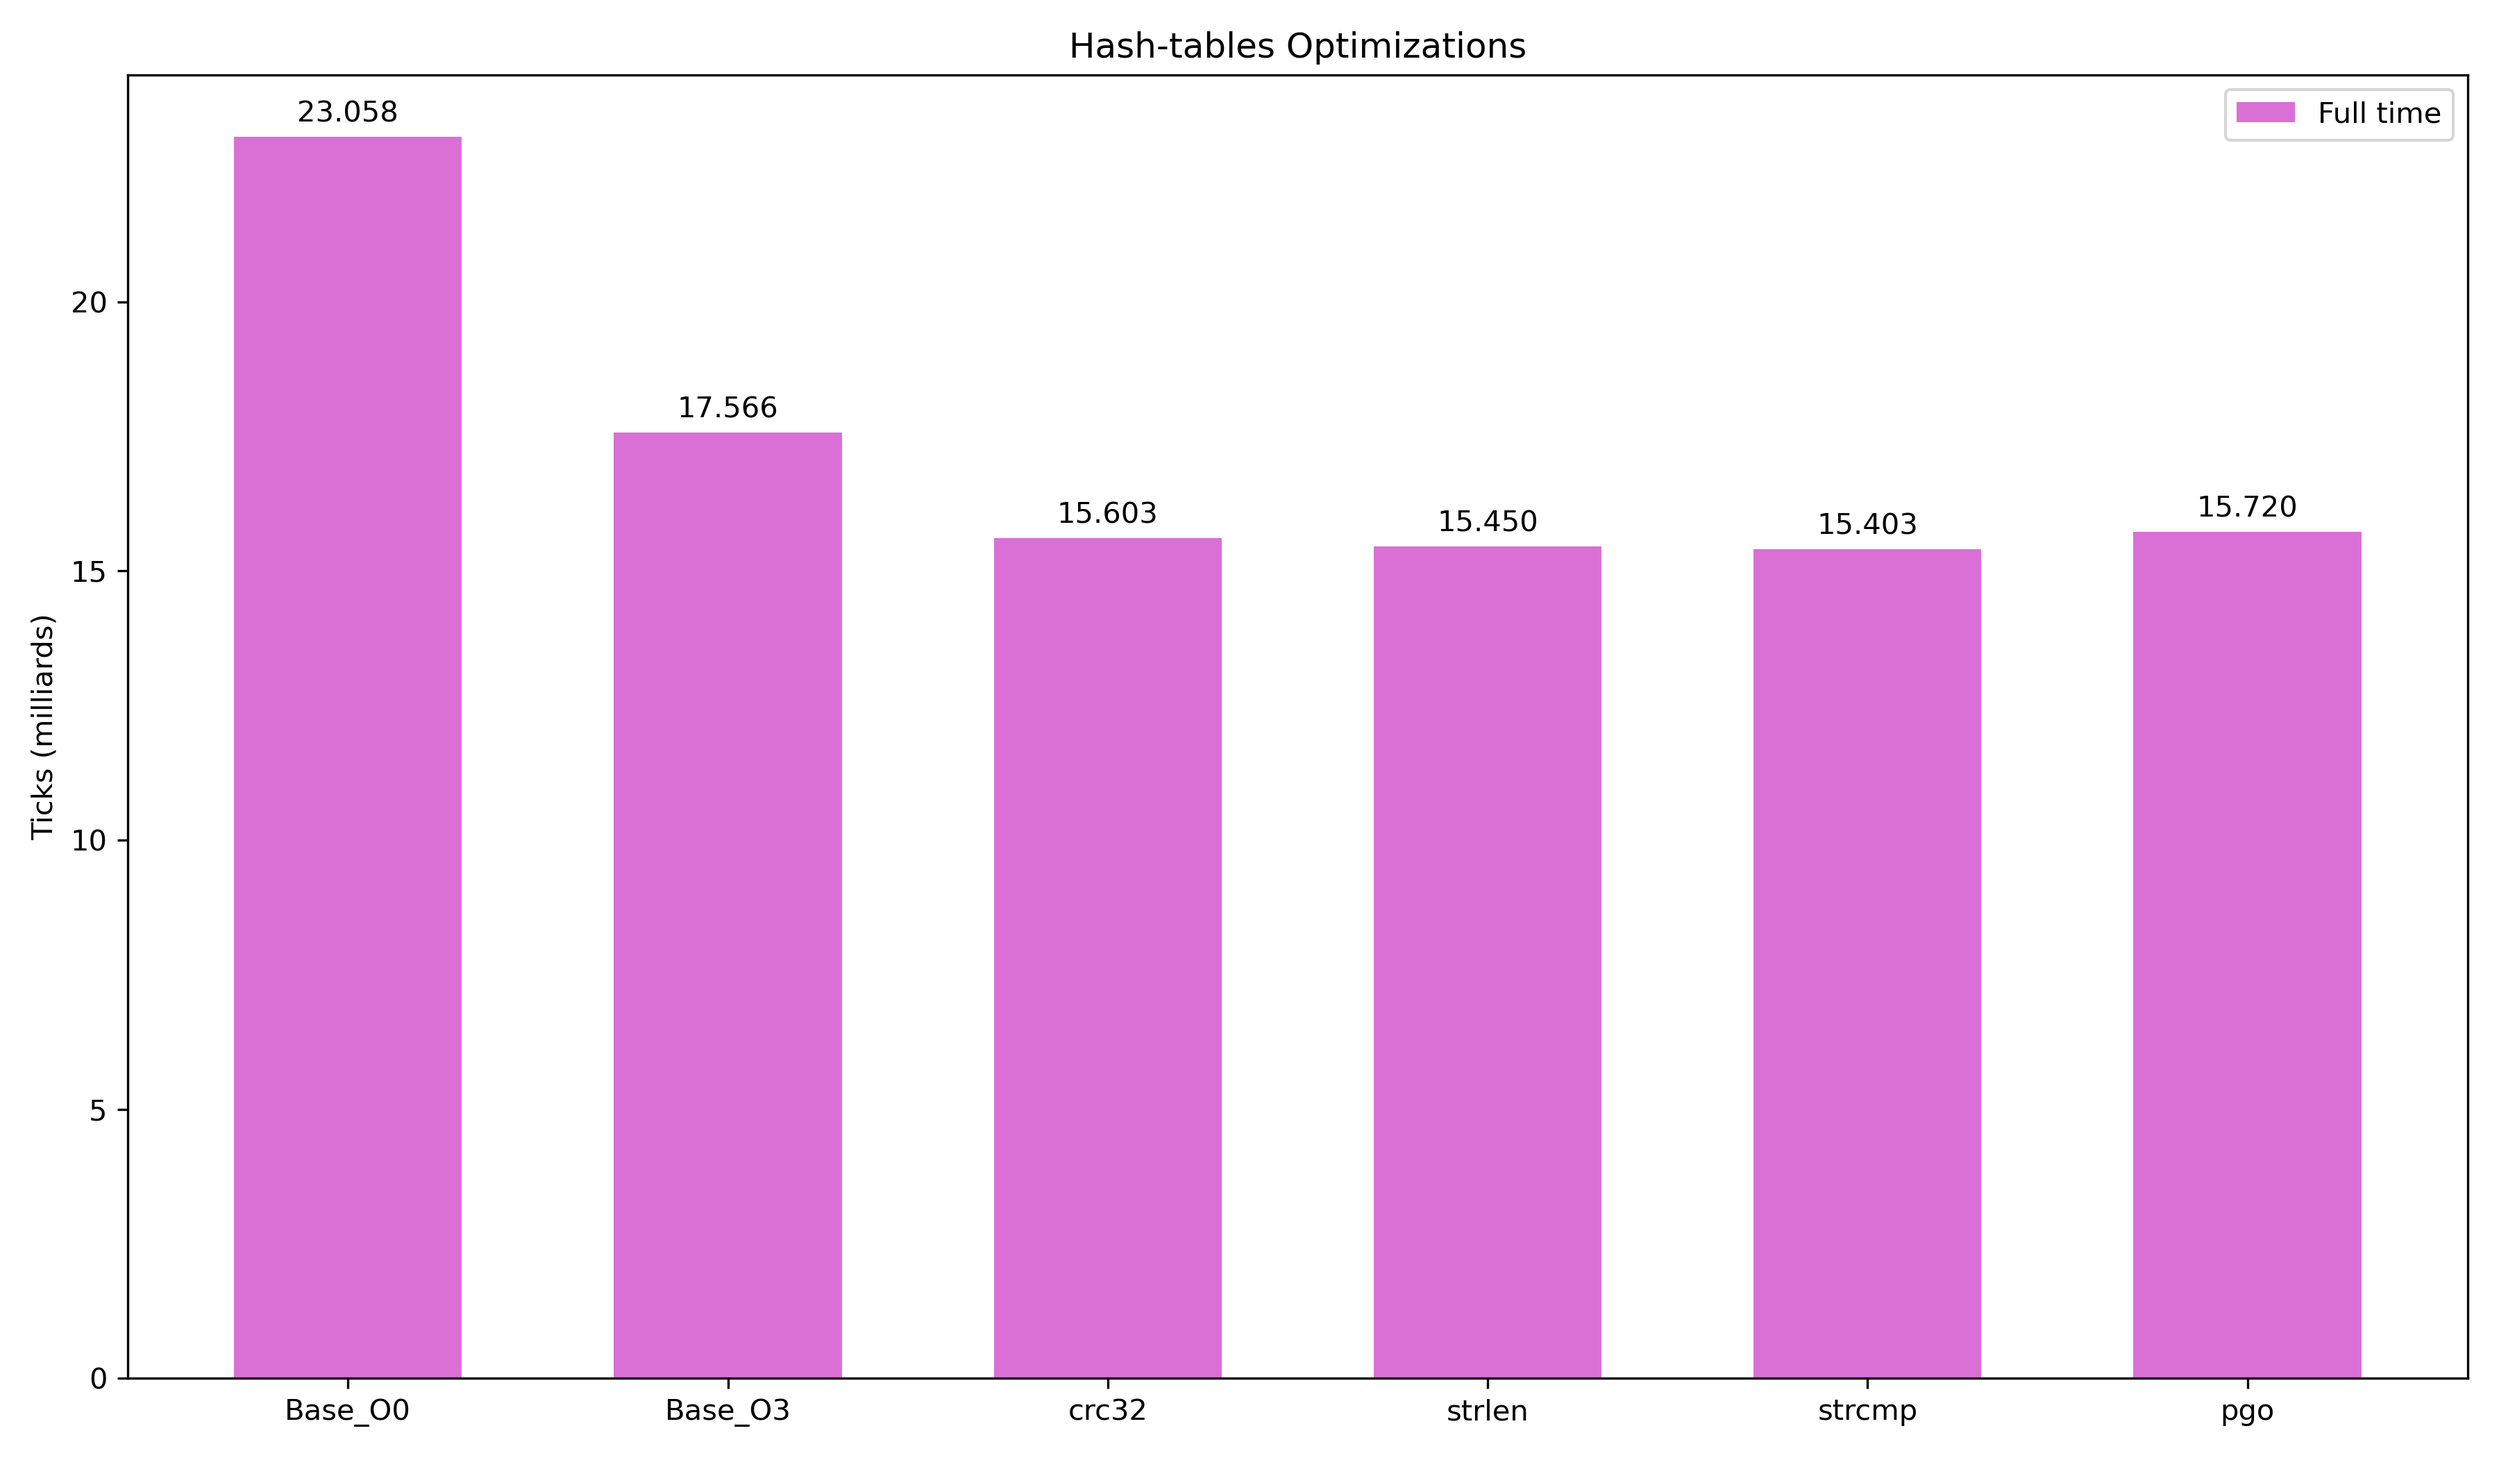
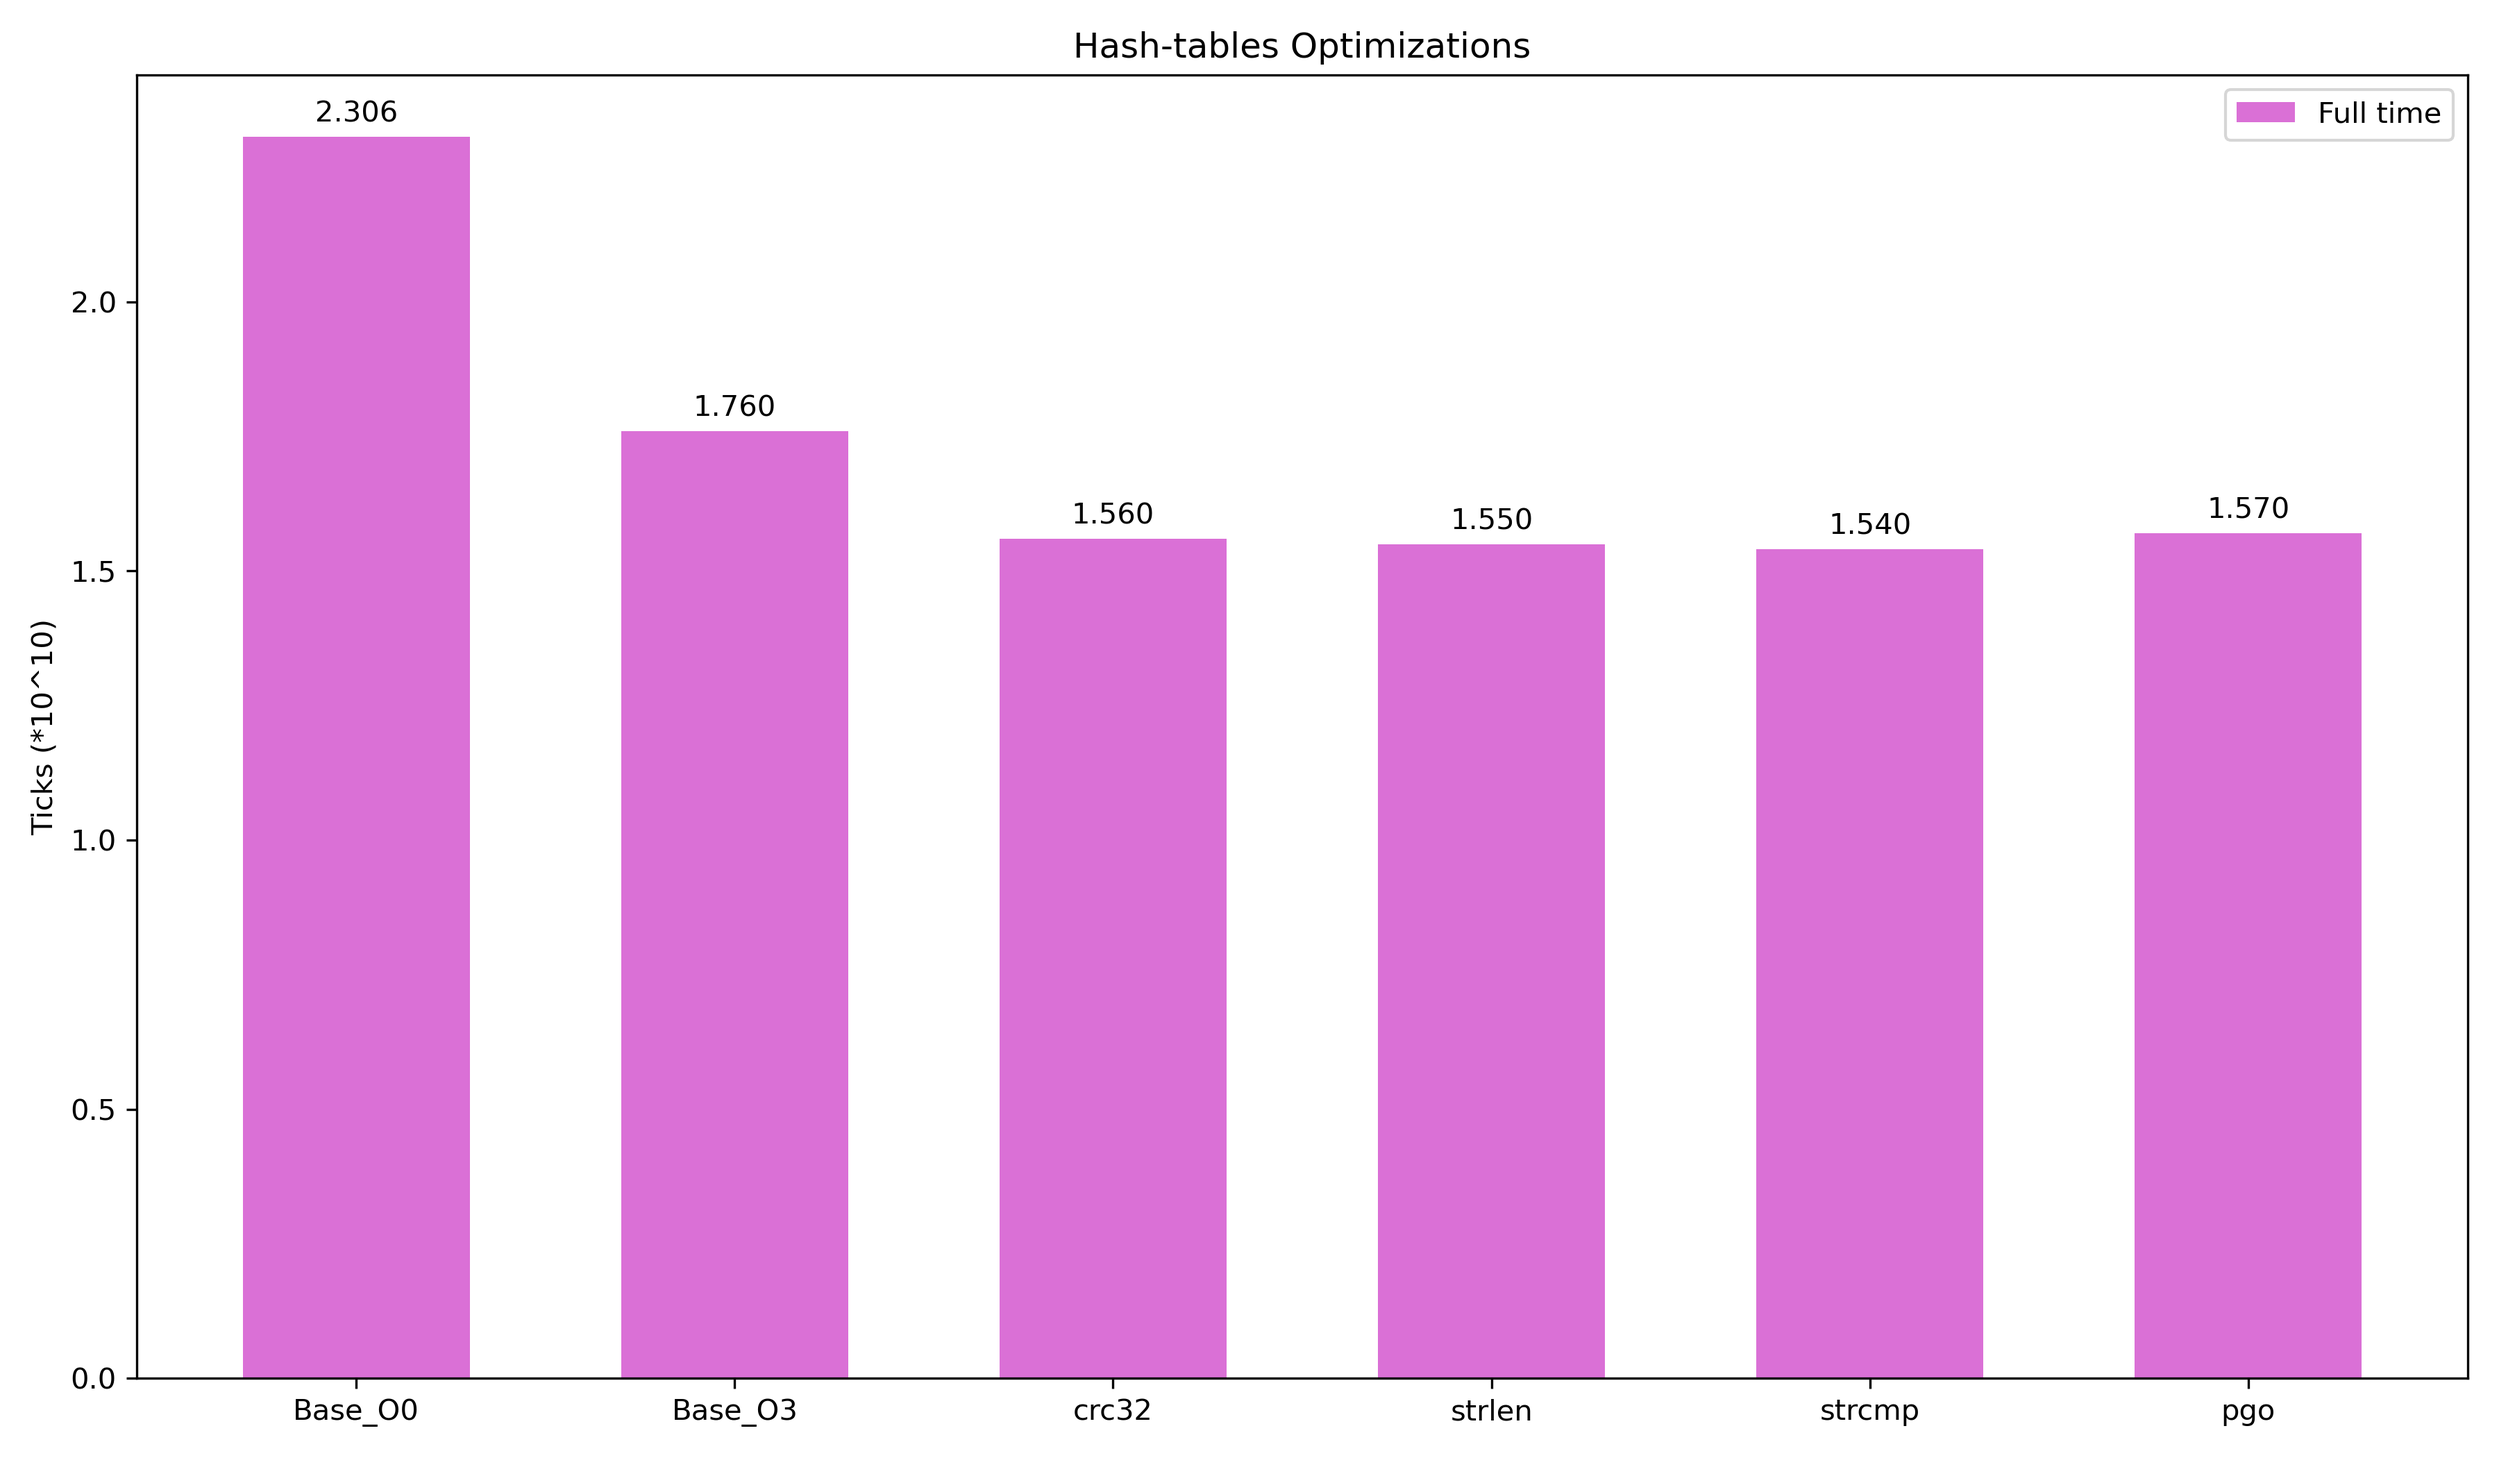
fix точности

diff --git a/graphic.py b/graphic.py
@@ -2,7 +2,7 @@ import matplotlib.pyplot as plt
 import numpy as np
 
 labels = ['Base_O0', 'Base_O3', 'crc32', 'strlen', 'strcmp', 'pgo']
-full_time = [23.058, 17.566, 15.603, 15.45, 15.403, 15.72]
+full_time = [2.306, 1.76, 1.56, 1.55, 1.54, 1.57]
 
 x = np.arange(len(labels))
 width = 0.6
@@ -11,7 +11,7 @@ fig, ax = plt.subplots(figsize=(12, 7), dpi=300)
 
 rects1 = ax.bar(x, full_time, width, label='Full time', color='#DA70D6')
 
-ax.set_ylabel('Ticks (milliards)')
+ax.set_ylabel('Ticks (*10^10)')
 ax.set_title('Hash-tables Optimizations')
 ax.set_xticks(x)
 ax.set_xticklabels(labels)

diff --git a/results.md b/results.md
@@ -196,7 +196,7 @@ mov     rbx, QWORD PTR [rax+rdx*8]
 3. 
 ```
 while (cur_node != NULL) {
-    if (cur_node->key->size == key->size && strcmp(cur_node->key->point, key->point) == 0) 
+    if (strcmp(cur_node->key->point, key->point) == 0) 
         return true;
 
     cur_node = cur_node->next;
@@ -416,11 +416,11 @@ Strcmp               | 14.58        | 20                    |
 
 Test Name            | Average         | StdDev          | RelError  
 ---------------------|-----------------|-----------------|-----------
-base_O0              | 2.31e+10        | 1.07e+08        | 0.46%
-base_O3              | 1.76e+10        | 1.00e+08        | 0.57%
-crc32                | 1.56e+10        | 3.40e+07        | 0.22%
-strlen               | 1.54e+10        | 6.01e+07        | 0.39%
-strcmp               | 1.55e+10        | 4.21e+07        | 0.27%
-pgo                  | 1.57e+10        | 7.94e+06        | 0.05%
+base_O0              | 2.31e+10        | 0.01e+10        | 0.46%
+base_O3              | 1.76e+10        | 0.01e+10        | 0.57%
+crc32                | 1.56e+10        | 0.003e+10        | 0.22%
+strlen               | 1.54e+10        | 0.006e+10        | 0.39%
+strcmp               | 1.55e+10        | 0.004e+10        | 0.27%
+pgo                  | 1.57e+10        | 0.0008e+10        | 0.05%
 
 ![graphic](graphic.png)
